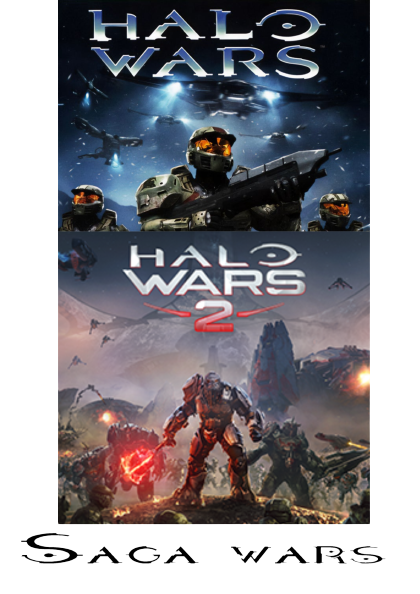
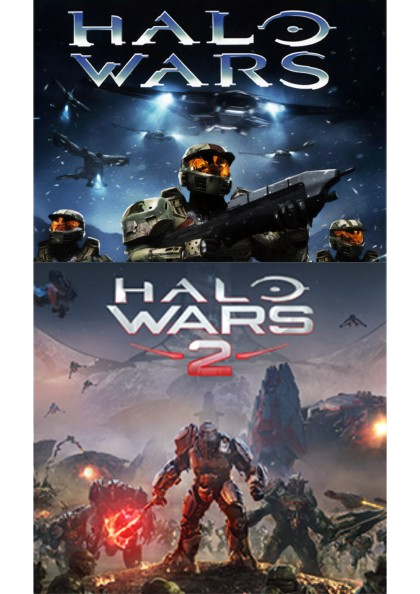
correcciones finales
Se cambio el color de la letra y se agrego otro fondo tambien se hicieron cambios en algunas imagenes y se borraron partes inesessarias

diff --git a/index.html b/index.html
@@ -11,30 +11,49 @@
   <header>
     <nav>
       <center><img src="IMGHeader/LogoHalo.png"></center>
-      <center><img src="IMGHeader/baner.png"></center>
+      <center><img src="IMGHeader/baner.png" width="100%"></center>
       <center><a href="#Sagas"><img src="IMGHeader/Sagas-removebg-preview.png"></a>
         <a href="#Galeria"><img src="IMGHeader/Galeria-removebg-preview.png"></a>
         <a href="#Opiniones"><img src="IMGHeader/Opiniones-removebg-preview.png"></a>
       </center>
       <h2>¿que es?</h2>
-      <p1>Halo es una serie de videojuegos de ciencia ficción que comenzó en 2001. La historia se desarrolla en un
+      <p2>Halo es una serie de videojuegos de ciencia ficción que comenzó en 2001. La historia se desarrolla en un
         universo ficticio en el siglo XXVI y sigue las aventuras del Jefe Maestro, un soldado cibernéticamente mejorado
         que lucha contra una raza alienígena conocida como los Covenant. La serie ha sido aclamada por su jugabilidad y
         su trama envolvente, y ha sido un pilar en la industria de los videojuegos durante más de dos décadas. Además de
         los juegos principales, la franquicia también ha inspirado libros, cómics y una serie de televisión en
         desarrollo. Halo es uno de los juegos más icónicos y exitosos de todos los tiempos, y sigue siendo una de las
-        propiedades intelectuales más valiosas en la industria del entretenimiento.</p1>
+        propiedades intelectuales más valiosas en la industria del entretenimiento.</p2>
 
-      <div class="item" id="Sagas" style="justify-content: center;">
-        <h2>
-          <center>Sagas</center>
-        </h2>
+      <div class="item" id="Sagas">
 
-        <img width=33% src="IMGHeader/Saga_original__1_-removebg-preview.png" alt="">
+      <h2><center>Sagas</center></h2>
 
-        <img width=33% src="IMGHeader/saga_reclamador-removebg-preview.png" alt="">
+      </div>
 
-        <img width=33% src="IMGHeader/saga_war-removebg-preview.png" alt="">
+      <div style="display: flex; justify-content: center;" >
+
+        <div class="img">
+
+          <left><figure><img src="IMGHeader/Saga_original__1_-removebg-preview.png" height="400" width="125%"></figure></left>
+          <center><h2>Saga original</h2></center>
+
+        </div>
+
+        <div class="img2">
+
+          <center><figure><img src="IMGHeader/Saga_reclamador__4_-removebg-preview.png" height="400" width="125%"></figure></center>
+
+          <center><h2>Saga reclamador</h2></center>
+
+        </div>
+
+        <div class="img 3">
+
+          <right><figure><img src="IMGHeader/saga_war-removebg-preview.png" height="400" width="125%"></figure></right>
+          <center><h2>Saga wars</h2></center>
+
+        </div>
 
       </div>
 

diff --git a/CSS/index.css b/CSS/index.css
@@ -4,7 +4,7 @@
 }
 body{
     background-size: cover;
-    background-image: url(fondo.jpg);
+    background-image: url(fondo\ halo\ cheat.jpg);
     background-repeat: no-repeat;
     background-position: center center;
     background-attachment: fixed;
@@ -23,18 +23,13 @@ body{
     font-family: Halo;
     src: url(CSS/Halo.ttf);
 }
-h2{
+
+
+body{
     font-family: Halo;
+    color: paleturquoise;
 }
-p1{
-    font-family: Halo;
-}
-footer{
-    font-family: Halo;
-}
-.item{
-    justify-content: center;
-}
+
 
 .contenedor_{
     display: flex;
